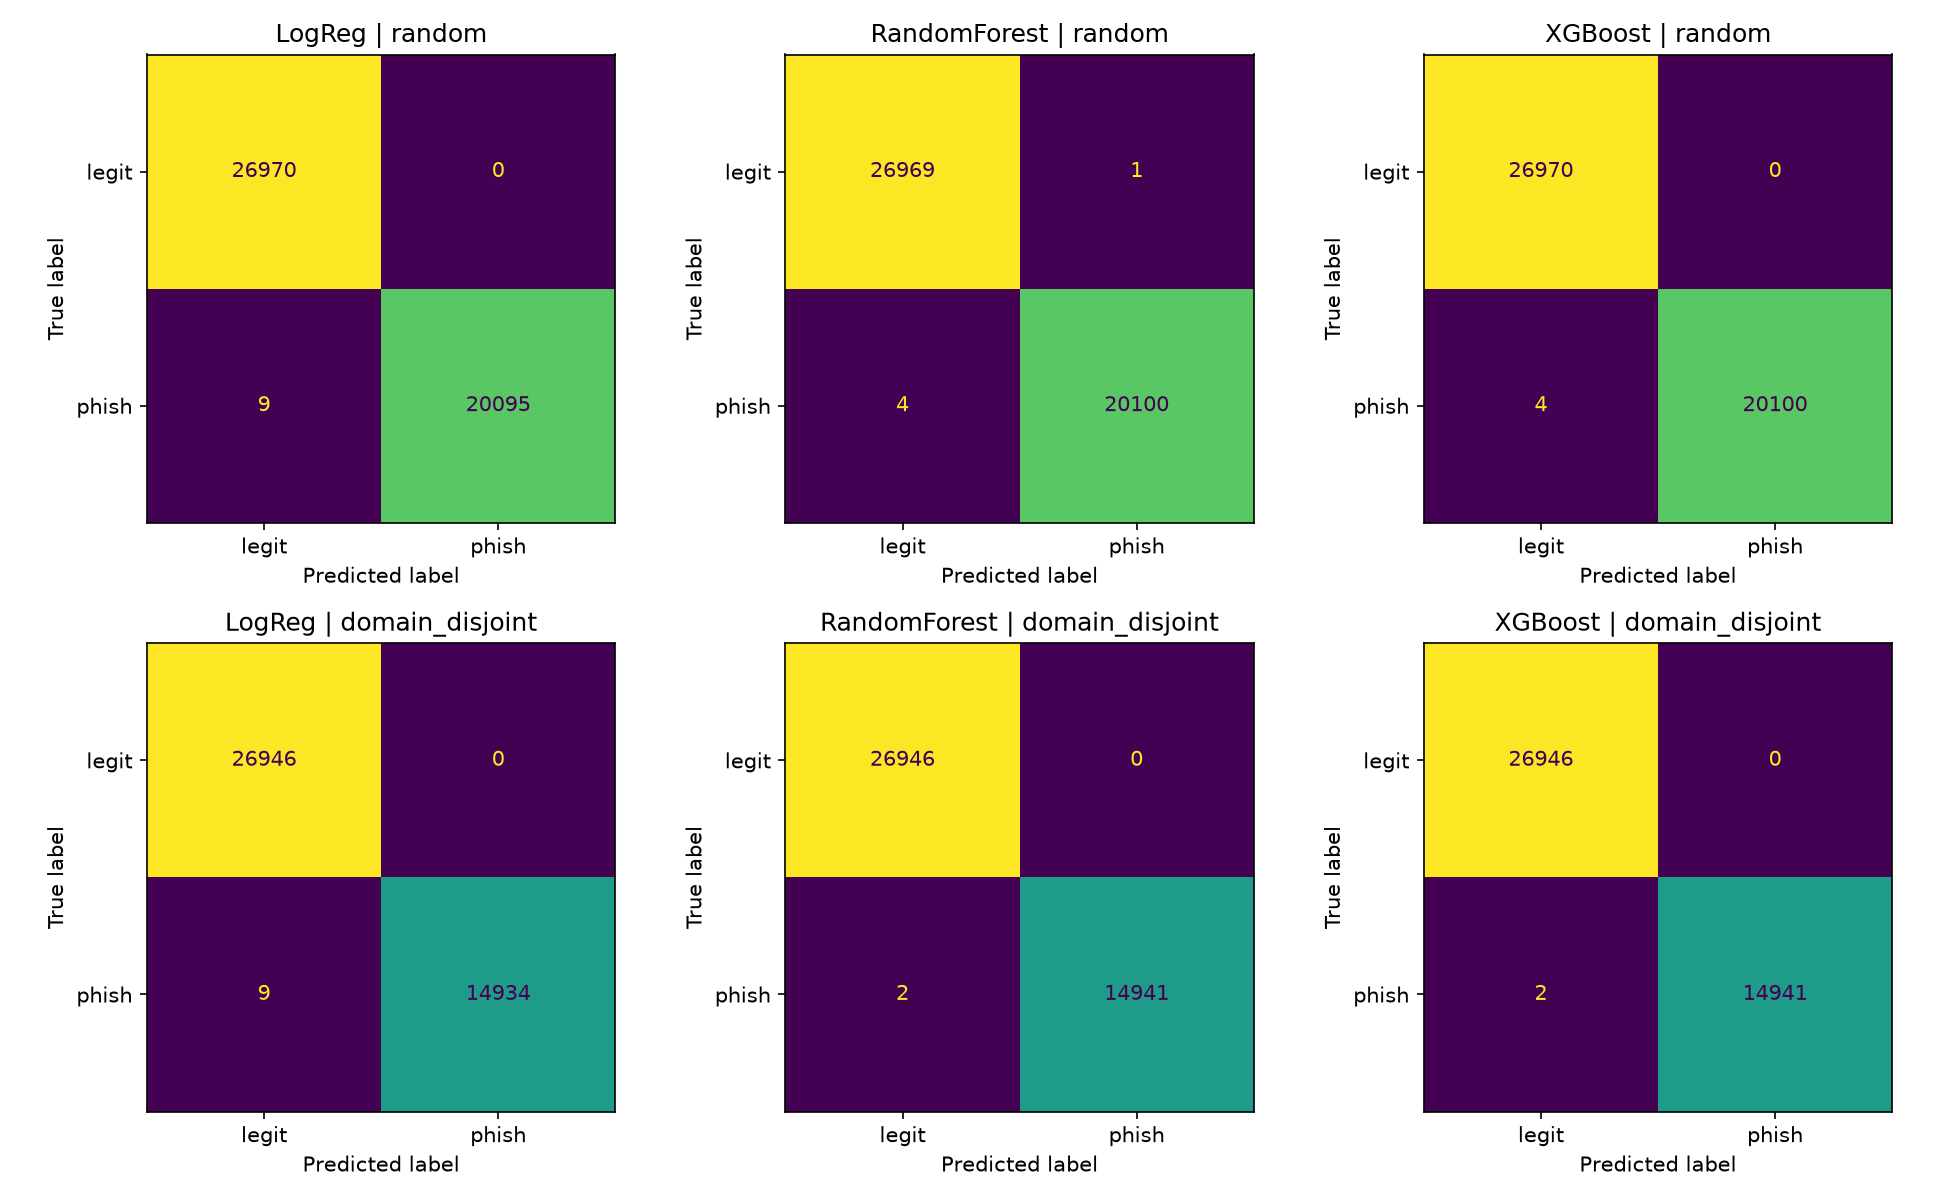
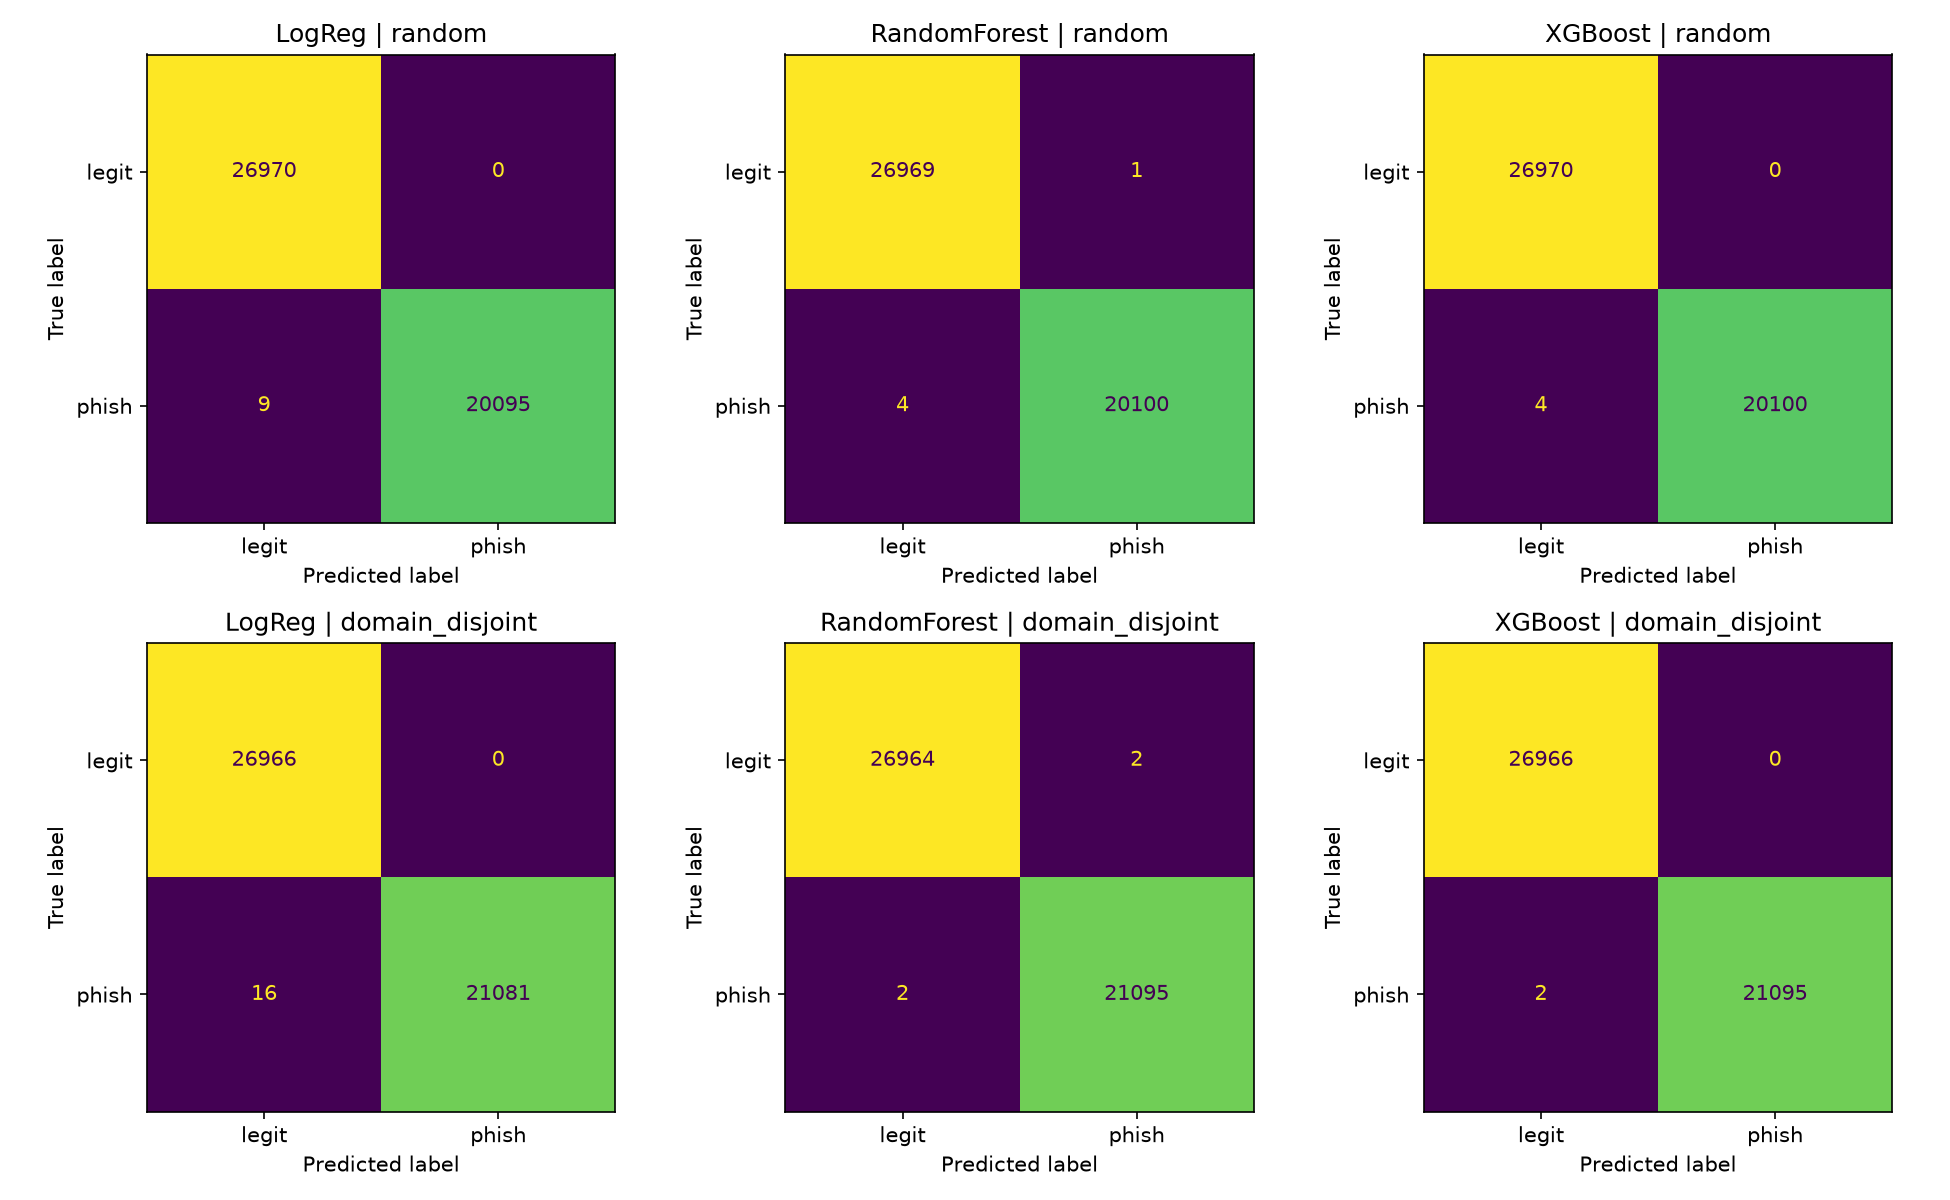
Use notebook-03 registered_domain definition and refresh Part A results

diff --git a/src/add_domains.py b/src/add_domains.py
@@ -1,21 +1,35 @@
+import ipaddress
+from urllib.parse import urlsplit
 import pandas as pd
 import tldextract
 
-# Offline mode: uses the bundled public-suffix list, no download needed
-extract = tldextract.TLDExtract(suffix_list_urls=(), cache_dir=None)
+# Same definition as notebooks/03_preprocessing.ipynb
+extractor = tldextract.TLDExtract(include_psl_private_domains=True)
 
-def registered(domain):
-    e = extract(domain)
+def extract_registered_domain(url):
+    if pd.isna(url) or not str(url).strip():
+        return pd.NA
+    url = str(url).strip()
+    parsed = urlsplit(url if "://" in url else "//" + url)
+    hostname = parsed.hostname
+    if not hostname:
+        return pd.NA
+    hostname = hostname.lower().rstrip(".")
+    try:
+        return ipaddress.ip_address(hostname).compressed
+    except ValueError:
+        pass
+    e = extractor(hostname)
     if e.domain and e.suffix:
-        return f"{e.domain}.{e.suffix}".lower()
-    return str(domain).lower()   # IP addresses or odd hosts: keep as-is
+        return f"{e.domain}.{e.suffix}"
+    return hostname
 
 df = pd.read_csv("data/cleaned.csv")
-df["registered_domain"] = df["Domain"].map(registered)
+df["registered_domain"] = df["URL"].apply(extract_registered_domain)
 
 print("rows:", len(df))
-print("distinct Domain:", df["Domain"].nunique())
+print("missing:", df["registered_domain"].isna().sum())
 print("distinct registered_domain:", df["registered_domain"].nunique())
-print("largest groups:\n", df["registered_domain"].value_counts().head(10))
+print(df["registered_domain"].value_counts().head(10))
 
 df.to_csv("data/cleaned_with_domains.csv", index=False)

diff --git a/README.md b/README.md
@@ -222,19 +222,19 @@ Phase 2 will focus on:
 
 ### Setup
 - Data: `data/cleaned_with_domains.csv`. Run `python -m src.add_domains` first to generate it from `cleaned.csv` (adds `registered_domain` via `tldextract`).
-- Splits: stratified random 80/20, and domain-disjoint (grouped by `registered_domain`, 175,509 groups, no domain in both train and test).
+- Splits: stratified random 80/20, and domain-disjoint (grouped by `registered_domain`, 197,301 groups, no domain in both train and test). `registered_domain` uses the same definition as `notebooks/03_preprocessing.ipynb` (`tldextract` with private suffixes included, so each tenant of a hosting platform such as `web.app` is its own group).
 - Models: Logistic Regression (scaled), Random Forest, XGBoost. Encoders and scalers are fit on the training split only (inside a `Pipeline`).
 - Run: `python -m src.train_models`, then `python -m src.plots`.
 
 ### Metrics
 | model        | split           |   precision |   recall |     f1 |   macro_f1 |    fnr |   pr_auc |   roc_auc |
 |:-------------|:----------------|------------:|---------:|-------:|-----------:|-------:|---------:|----------:|
-| LogReg       | random          |           1 |   0.9996 | 0.9998 |     0.9998 | 0.0004 |   0.9999 |    0.9999 |
-| RandomForest | random          |           1 |   0.9998 | 0.9999 |     0.9999 | 0.0002 |   1      |    1      |
-| XGBoost      | random          |           1 |   0.9998 | 0.9999 |     0.9999 | 0.0002 |   1      |    0.9999 |
-| LogReg       | domain_disjoint |           1 |   0.9994 | 0.9997 |     0.9998 | 0.0006 |   1      |    1      |
-| RandomForest | domain_disjoint |           1 |   0.9999 | 0.9999 |     0.9999 | 0.0001 |   1      |    1      |
-| XGBoost      | domain_disjoint |           1 |   0.9999 | 0.9999 |     0.9999 | 0.0001 |   0.9999 |    0.9999 |
+| LogReg       | random          |      1      |   0.9996 | 0.9998 |     0.9998 | 0.0004 |   0.9999 |    0.9999 |
+| RandomForest | random          |      1      |   0.9998 | 0.9999 |     0.9999 | 0.0002 |   1      |    1      |
+| XGBoost      | random          |      1      |   0.9998 | 0.9999 |     0.9999 | 0.0002 |   1      |    0.9999 |
+| LogReg       | domain_disjoint |      1      |   0.9992 | 0.9996 |     0.9997 | 0.0008 |   0.9999 |    0.9998 |
+| RandomForest | domain_disjoint |      0.9999 |   0.9999 | 0.9999 |     0.9999 | 0.0001 |   1      |    1      |
+| XGBoost      | domain_disjoint |      1      |   0.9999 | 1      |     1      | 0.0001 |   1      |    1      |
 
 ### Figures
 ![Confusion matrices](results/figures/confusion_matrices.png)
@@ -244,11 +244,11 @@ Phase 2 will focus on:
 
 ### Analysis
 
-**Best model.** Random Forest and XGBoost tie on the domain-disjoint split: 2 errors out of 41,889 test URLs (0 false positives, 2 false negatives), F1 0.9999. Logistic Regression has 9 false negatives (F1 0.9997). The tree models differ by a couple of samples at most, so I do not claim a meaningful ranking between them. FNR is the metric that matters most here: 0.0001 for the tree models versus 0.0006 for Logistic Regression.
+**Best model.** XGBoost is the best model on the domain-disjoint split: 2 errors out of 48,063 test URLs (0 false positives, 2 false negatives), F1 1.0000 (0.99995 unrounded). Random Forest makes 4 errors (2 false positives, 2 false negatives) and Logistic Regression makes 16 (all false negatives, FNR 0.0008). The margin between XGBoost and Random Forest is only a couple of samples, so I treat the tree models as close, with XGBoost slightly ahead. FNR matters most here: 0.0001 for both tree models versus 0.0008 for Logistic Regression.
 
-**Random vs domain-disjoint gap.** F1(random) - F1(domain-disjoint) is +0.00008 for Logistic Regression, -0.00006 for Random Forest and -0.00003 for XGBoost. All are within noise, so grouping by registered domain did not reveal memorization of domains. This should not be read as strong generalization. The features separate the classes almost trivially (`URLSimilarityIndex` alone has AUC 0.996, and every legitimate URL is a bare `https://www.<domain>` homepage), and three features (`URLSimilarityIndex`, `TLDLegitimateProb`, `URLCharProb`) were computed over the full dataset. Part B tests this directly. Caveat: the domain-disjoint test set is 35.7% phishing versus 44.2% in train, because large hosting platforms (`web.app`, `firebaseapp.com`, `repl.co`) moved as single blocks.
+**Random vs domain-disjoint gap.** F1(random) - F1(domain-disjoint) is +0.000155 for Logistic Regression, -0.000030 for Random Forest and -0.000052 for XGBoost. The tree models are within noise, and only Logistic Regression is slightly worse on unseen domains. Grouping by registered domain therefore did not reveal memorization. This should not be read as strong generalization. The features separate the classes almost trivially (`URLSimilarityIndex` alone has AUC 0.996, and every legitimate URL is a bare `https://www.<domain>` homepage), and three features (`URLSimilarityIndex`, `TLDLegitimateProb`, `URLCharProb`) were computed over the full dataset. Part B tests this directly. The grouped split is balanced (42.4% phishing in train, 43.9% in test).
 
-**Where it fails.** On the domain-disjoint split, XGBoost and Random Forest each miss only 2 of 14,943 phishing URLs, and neither flags a legitimate URL. Both misses (`https://www.officested.com` and `https://www.eauctionsindia.com/`) are bare `https://www.<domain>` homepages with `URLSimilarityIndex` = 100, HTTPS = 1 and a `.com` TLD. These are exactly the values typical of the legitimate class (median similarity 100, median HTTPS 1, versus 54 and 0 for phishing). The model assigned them phishing probabilities of 0.00008 and 0.000003, so they are confident errors rather than borderline cases, and lowering the decision threshold would not recover them. A phishing page that mimics a clean homepage with a valid certificate is invisible to a URL-string feature set. Telling such pages apart would need page-content or host-level evidence (domain age, WHOIS, certificate details).
+**Where it fails.** On the domain-disjoint split, XGBoost misses 2 of 21,097 phishing URLs and flags no legitimate URL. Both misses are the same site, `https://www.opallegal.com.au` (with and without a trailing slash), so they count as one distinct failure. It has `URLSimilarityIndex` = 100, HTTPS = 1 and a short, bare `https://www.<domain>` form, which are the values typical of the legitimate class (median similarity 100 and median HTTPS 1, versus 51.7 and 0 for phishing). The model gave the two URLs phishing probabilities of 0.000258 and 0.000132, so these are confident errors rather than borderline cases, and lowering the decision threshold would not recover them. A phishing page that mimics a clean homepage is invisible to a URL-string feature set. Telling it apart would need page-content or host-level evidence (domain age, WHOIS, certificate details). Random Forest additionally produced 2 false positives on this split.
 
 **How to improve.**
 1. Remove the leak-suspect features and retrain (Part B).
